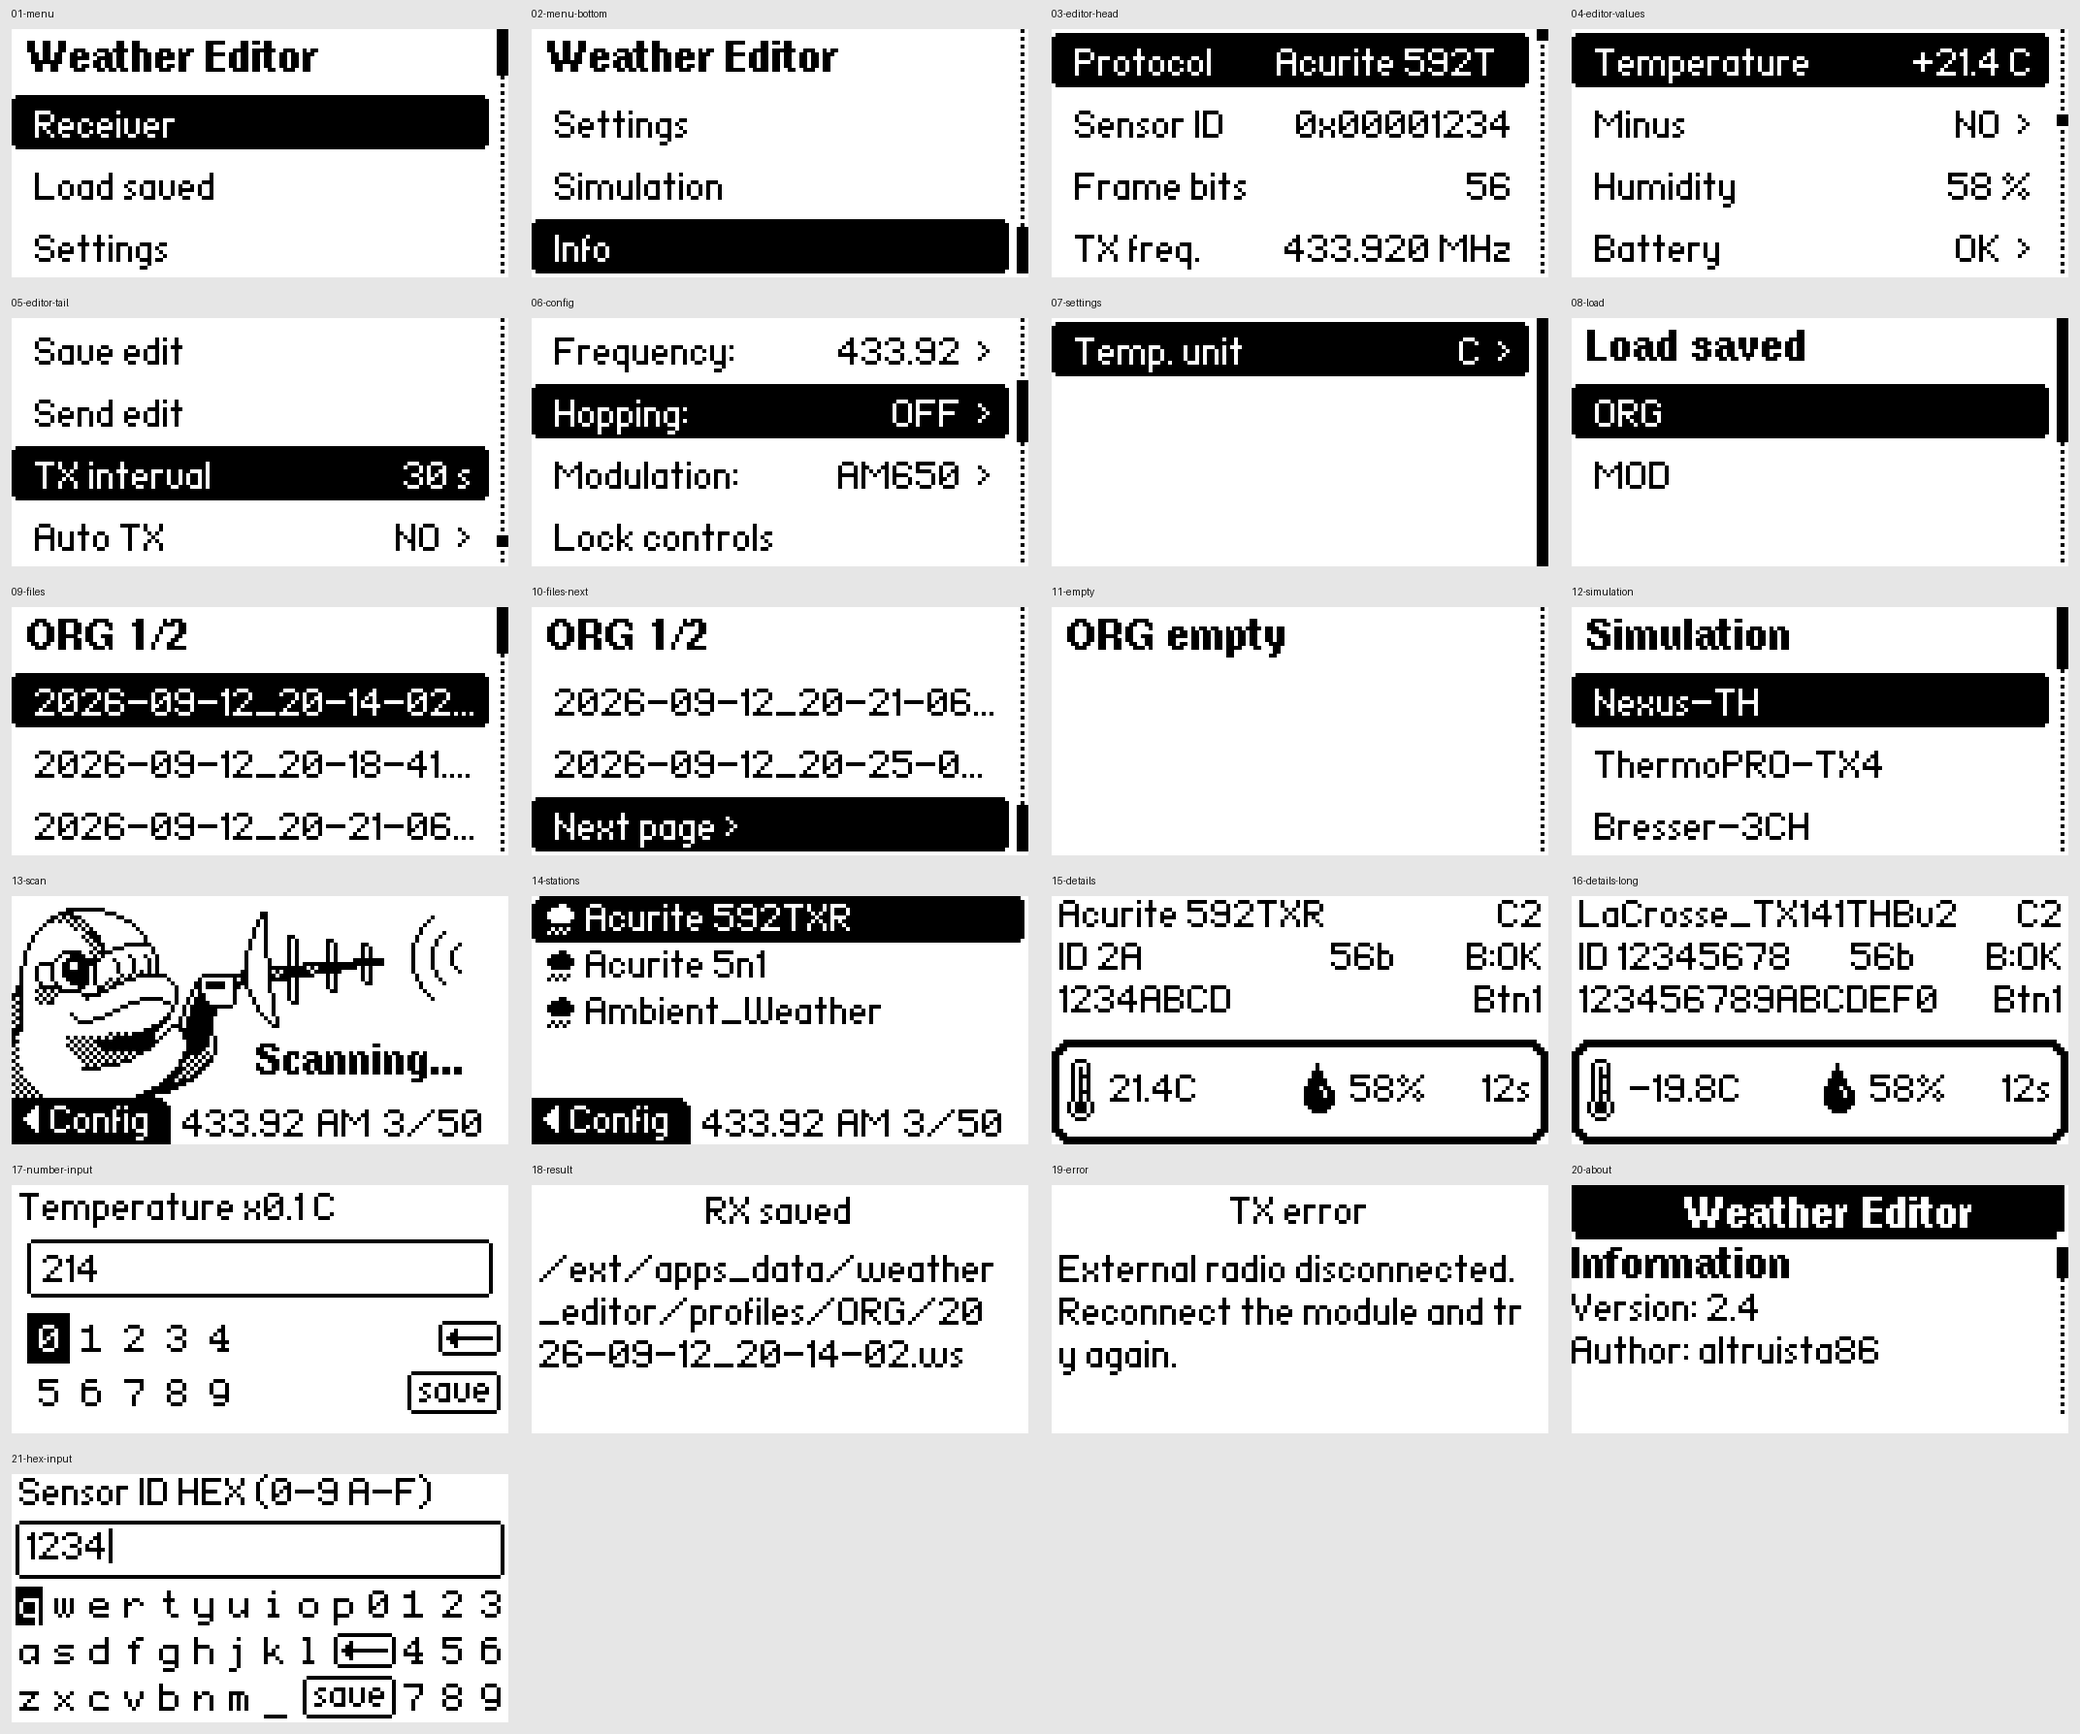
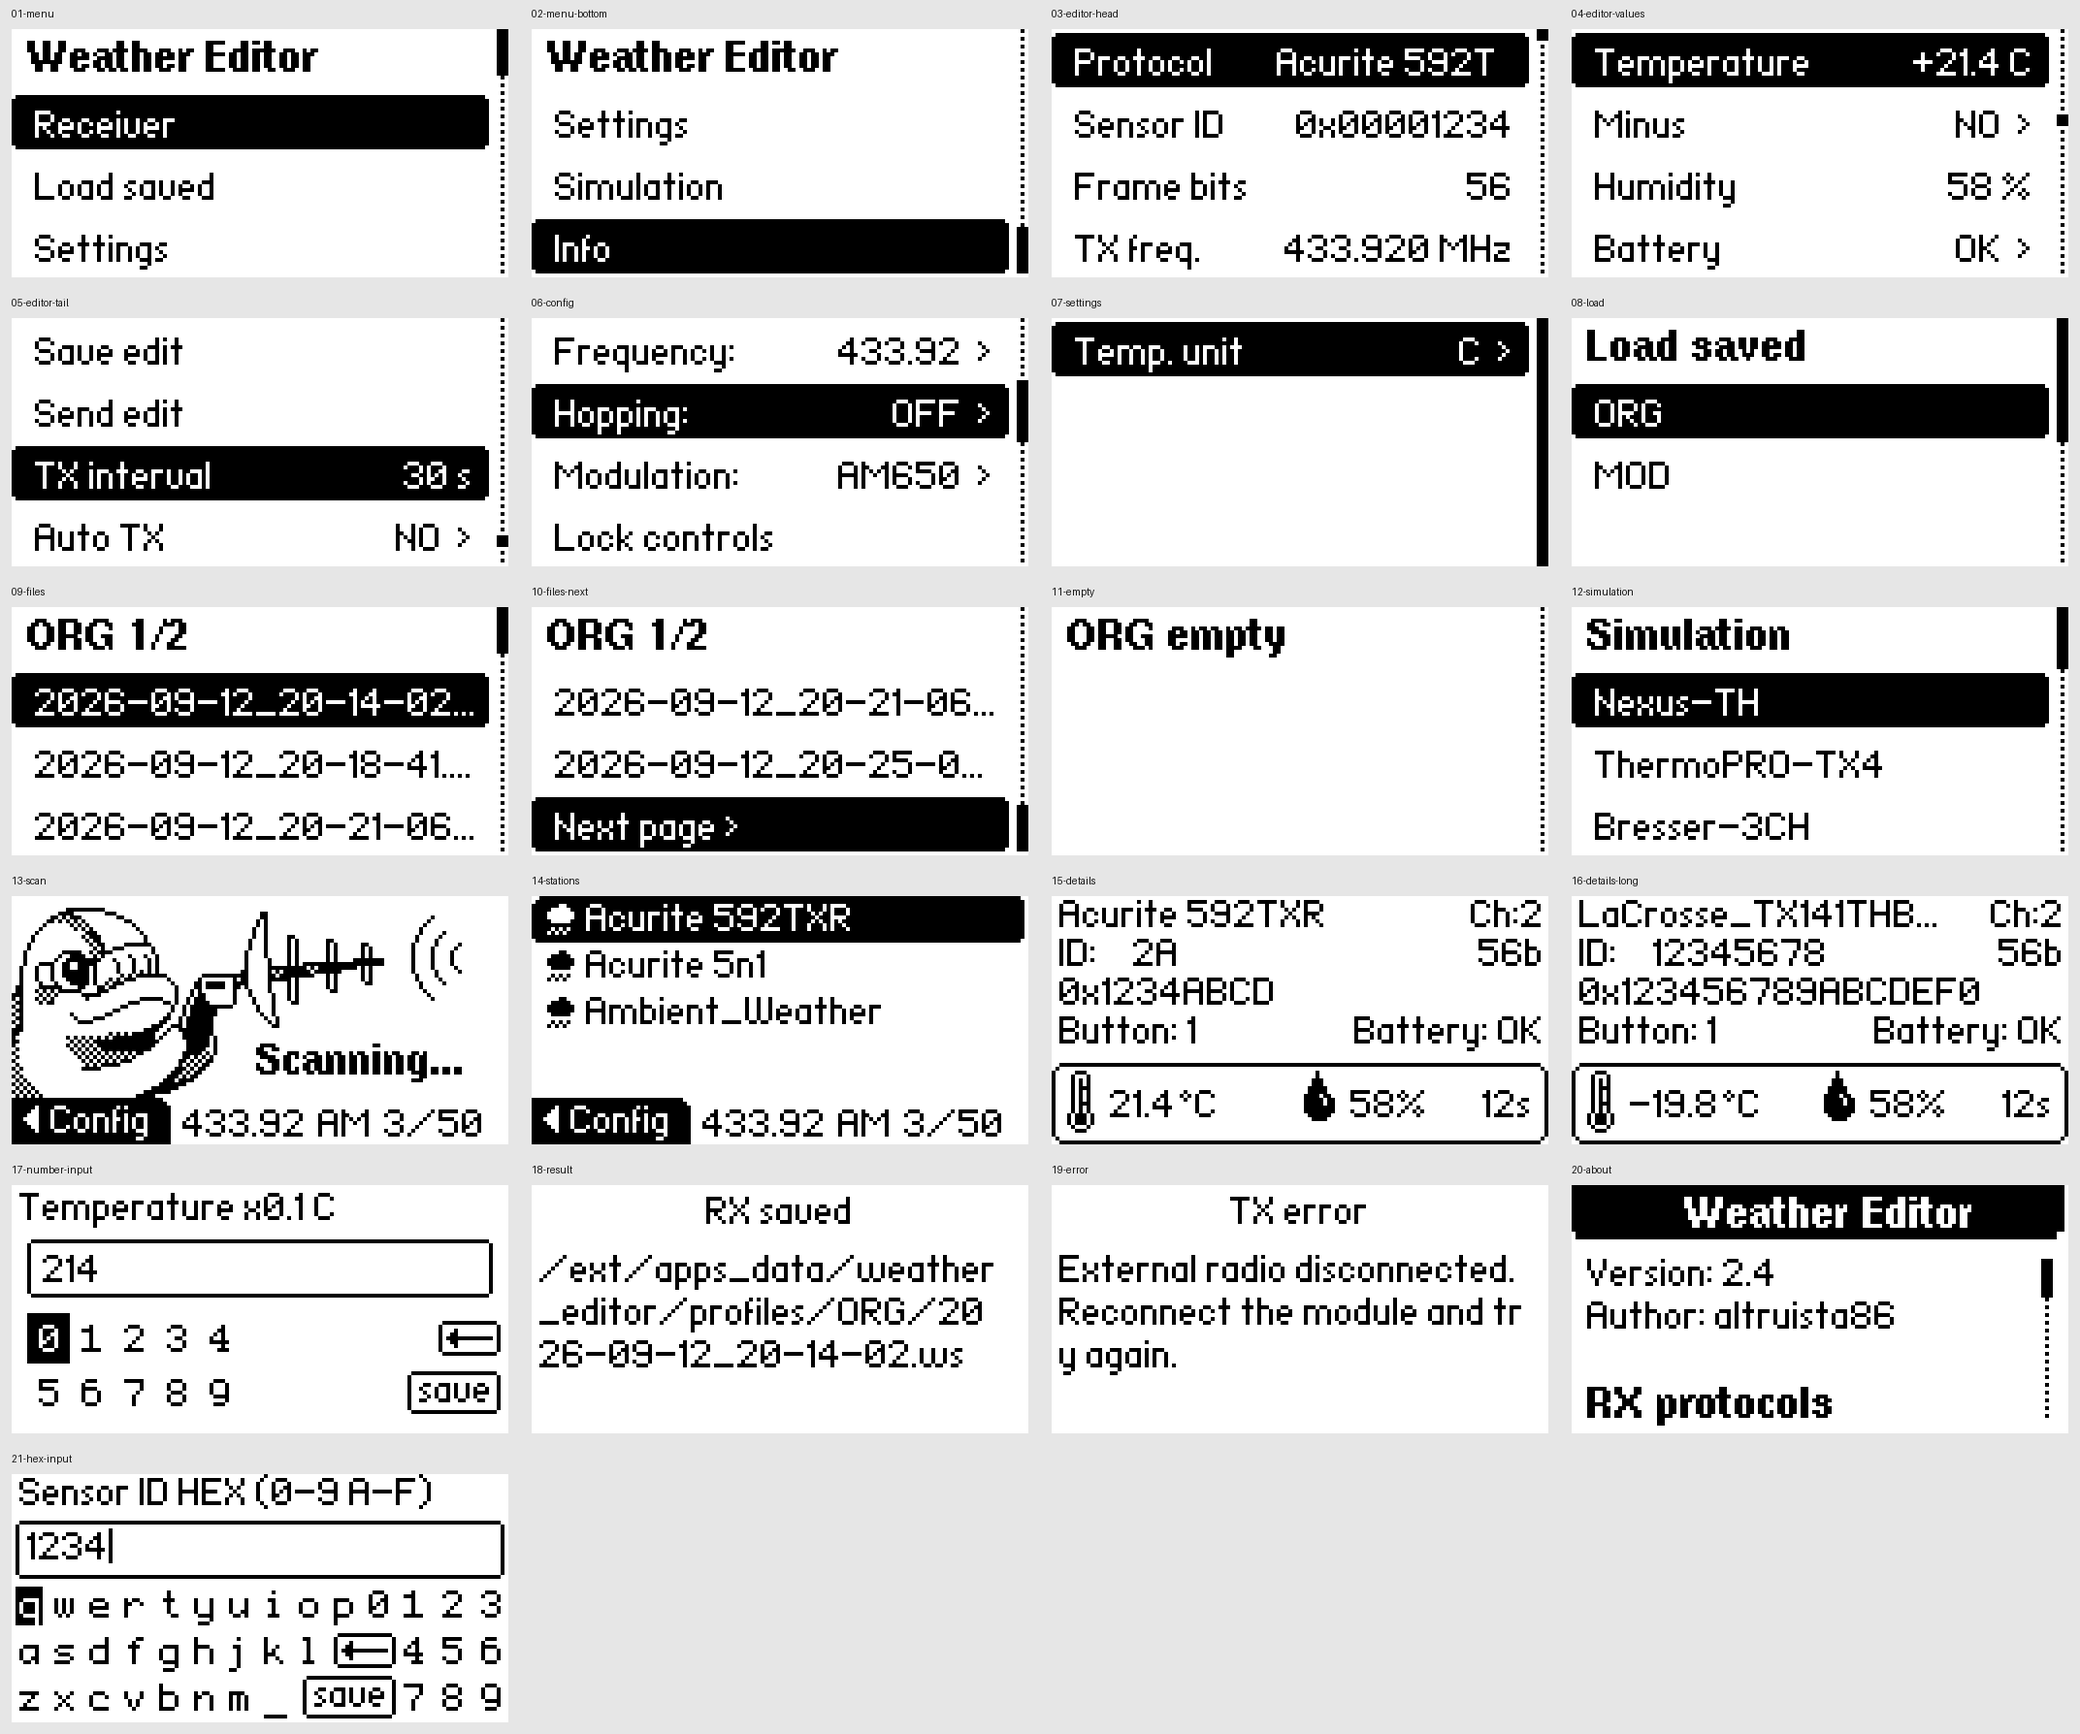
fix(weather): separate sensor metadata and pad the about screen

Changed region(s): [[0.5, 0.5229, 1.0, 0.6767], [0.75, 0.7075, 0.9062, 0.8305], [0.9688, 0.7075, 1.0, 0.769]]

diff --git a/applications_user/weather_editor/views/weather_station_receiver_info.c b/applications_user/weather_editor/views/weather_station_receiver_info.c
@@ -56,53 +56,56 @@ void ws_view_receiver_info_draw(Canvas* canvas, WSReceiverInfoModel* model) {
 
     // The protocol and channel own separate areas, even with a long protocol name.
     FuriString* title = furi_string_alloc_set(model->protocol_name);
-    elements_string_fit_width(canvas, title, 101);
+    elements_string_fit_width(canvas, title, 95);
     canvas_draw_str(canvas, 2, 8, furi_string_get_cstr(title));
     furi_string_free(title);
     if(model->generic->channel != WS_NO_CHANNEL) {
-        snprintf(buffer, sizeof(buffer), "C%u", model->generic->channel);
+        snprintf(buffer, sizeof(buffer), "Ch:%u", model->generic->channel);
         canvas_draw_str_aligned(canvas, 126, 8, AlignRight, AlignBottom, buffer);
     }
 
     if(model->generic->id != WS_NO_ID) {
-        snprintf(buffer, sizeof(buffer), "ID %lX", (unsigned long)model->generic->id);
-        canvas_draw_str(canvas, 2, 19, buffer);
+        canvas_draw_str(canvas, 2, 18, "ID:");
+        snprintf(buffer, sizeof(buffer), "%lX", (unsigned long)model->generic->id);
+        canvas_draw_str(canvas, 21, 18, buffer);
     }
     snprintf(buffer, sizeof(buffer), "%ub", model->generic->data_count_bit);
-    canvas_draw_str(canvas, 72, 19, buffer);
+    canvas_draw_str_aligned(canvas, 126, 18, AlignRight, AlignBottom, buffer);
+
+    snprintf(buffer, sizeof(buffer), "0x%llX", (unsigned long long)model->generic->data);
+    canvas_draw_str(canvas, 2, 28, buffer);
+    if(model->generic->btn != WS_NO_BTN) {
+        snprintf(buffer, sizeof(buffer), "Button: %u", model->generic->btn);
+        canvas_draw_str(canvas, 2, 38, buffer);
+    }
     if(model->generic->battery_low != WS_NO_BATT) {
         canvas_draw_str_aligned(
-            canvas, 126, 19, AlignRight, AlignBottom,
-            model->generic->battery_low ? "B:LOW" : "B:OK");
+            canvas, 126, 38, AlignRight, AlignBottom,
+            model->generic->battery_low ? "Battery: LOW" : "Battery: OK");
     }
 
-    snprintf(buffer, sizeof(buffer), "%llX", (unsigned long long)model->generic->data);
-    canvas_draw_str(canvas, 2, 30, buffer);
-    if(model->generic->btn != WS_NO_BTN) {
-        snprintf(buffer, sizeof(buffer), "Btn%u", model->generic->btn);
-        canvas_draw_str_aligned(canvas, 126, 30, AlignRight, AlignBottom, buffer);
-    }
-
-    elements_bold_rounded_frame(canvas, 0, 37, 127, 26);
+    canvas_draw_rframe(canvas, 0, 43, 128, 21, 3);
     if(!float_is_equal(model->generic->temp, WS_NO_TEMPERATURE)) {
         const double temperature = model->display_fahrenheit ?
             locale_celsius_to_fahrenheit(model->generic->temp) : model->generic->temp;
-        canvas_draw_icon(canvas, 4, 42, &I_Therm_7x16);
-        snprintf(buffer, sizeof(buffer), "%.1f%s", temperature,
-                 model->display_fahrenheit ? "F" : "C");
-        canvas_draw_str(canvas, 15, 53, buffer);
+        canvas_draw_icon(canvas, 4, 45, &I_Therm_7x16);
+        snprintf(buffer, sizeof(buffer), "%.1f", temperature);
+        canvas_draw_str(canvas, 15, 57, buffer);
+        const int32_t unit_x = 15 + canvas_string_width(canvas, buffer) + 5;
+        canvas_draw_circle(canvas, unit_x - 2, 51, 1);
+        canvas_draw_str(canvas, unit_x + 1, 57, model->display_fahrenheit ? "F" : "C");
     }
     if(model->generic->humidity != WS_NO_HUMIDITY) {
-        canvas_draw_icon(canvas, 65, 43, &I_Humid_8x13);
+        canvas_draw_icon(canvas, 65, 45, &I_Humid_8x13);
         snprintf(buffer, sizeof(buffer), "%u%%", model->generic->humidity);
-        canvas_draw_str(canvas, 77, 53, buffer);
+        canvas_draw_str(canvas, 77, 57, buffer);
     }
     if(model->generic->timestamp > 0 && model->curr_ts >= model->generic->timestamp) {
         const uint32_t seconds = model->curr_ts - model->generic->timestamp;
         if(seconds < 60) snprintf(buffer, sizeof(buffer), "%lus", (unsigned long)seconds);
         else if(seconds < 3600) snprintf(buffer, sizeof(buffer), "%lum", (unsigned long)(seconds / 60));
         else snprintf(buffer, sizeof(buffer), "Old");
-        canvas_draw_str_aligned(canvas, 123, 53, AlignRight, AlignBottom, buffer);
+        canvas_draw_str_aligned(canvas, 123, 57, AlignRight, AlignBottom, buffer);
     }
 }
 

diff --git a/tools/tumoflip/render_weather_native.py b/tools/tumoflip/render_weather_native.py
@@ -325,8 +325,10 @@ def build_source(ref, skip_text_input=False):
     if 'list, "TX interval"' in actions:
         driver=driver.replace('"Auto TX interval"','"TX interval"')
     about=read("applications_user/weather_editor/scenes/weather_station_scene_about.c",ref)
-    scroll_height=re.search(r'widget_add_text_scroll_element\(app->widget, 0, 16, 128, (\d+)',about).group(1)
-    driver=driver.replace('text_scroll(&c,0,16,128,50,','text_scroll(&c,0,16,128,'+scroll_height+',')
+    scroll_geometry=re.search(r'widget_add_text_scroll_element\(app->widget, (\d+), (\d+), (\d+), (\d+)',about).groups()
+    driver=driver.replace('text_scroll(&c,0,16,128,50,','text_scroll(&c,'+','.join(scroll_geometry)+',')
+    if r'\e#Information' not in about:
+        driver=driver.replace(r'\e#Information\nVersion:', 'Version:')
     if 'widget_add_button_element(' not in about:
         driver=driver.replace('elements_button_center(&c,"");save(&c,argv[1],"20-about");','save(&c,argv[1],"20-about");')
     if skip_text_input:

diff --git a/applications_user/weather_editor/scenes/weather_station_scene_about.c b/applications_user/weather_editor/scenes/weather_station_scene_about.c
@@ -17,8 +17,7 @@ void weather_station_scene_about_on_enter(void* context) {
     if(!app || !weather_station_ensure_widget(app)) return;
 
     FuriString* temp_str = furi_string_alloc();
-    furi_string_printf(temp_str, "\e#Information\n");
-    furi_string_cat_printf(temp_str, "Version: %s\n", FAP_VERSION);
+    furi_string_printf(temp_str, "Version: %s\n", FAP_VERSION);
     furi_string_cat_printf(temp_str, "Author: %s\n\n", WS_DEVELOPED);
 
 
@@ -48,7 +47,7 @@ void weather_station_scene_about_on_enter(void* context) {
         AlignBottom,
         "\e#\e!         Weather Editor       \e!\n",
         false);
-    widget_add_text_scroll_element(app->widget, 0, 16, 128, 44, furi_string_get_cstr(temp_str));
+    widget_add_text_scroll_element(app->widget, 4, 19, 120, 42, furi_string_get_cstr(temp_str));
     app->lab_about_taps = 0U;
     app->lab_about_last_tick = 0U;
     furi_string_free(temp_str);
